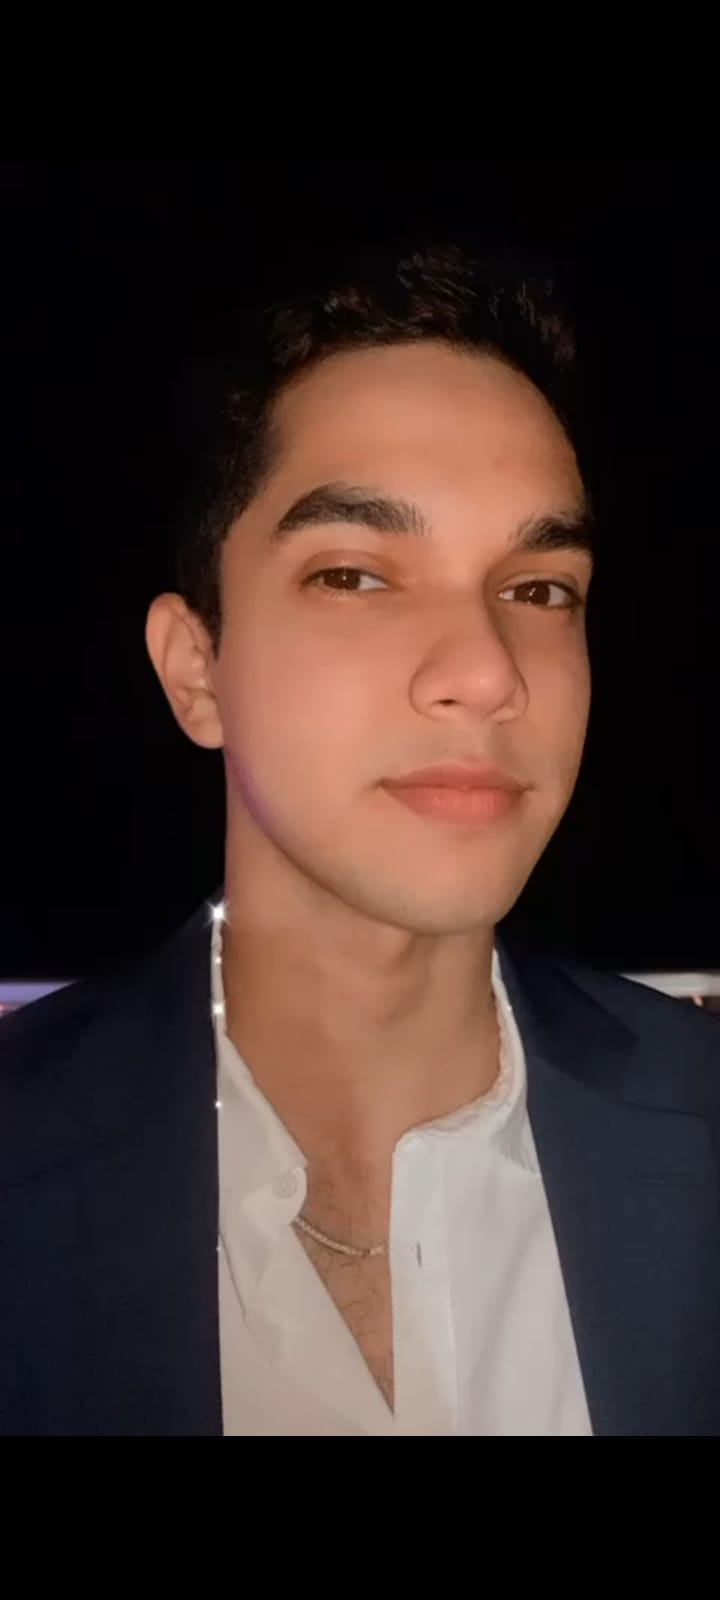
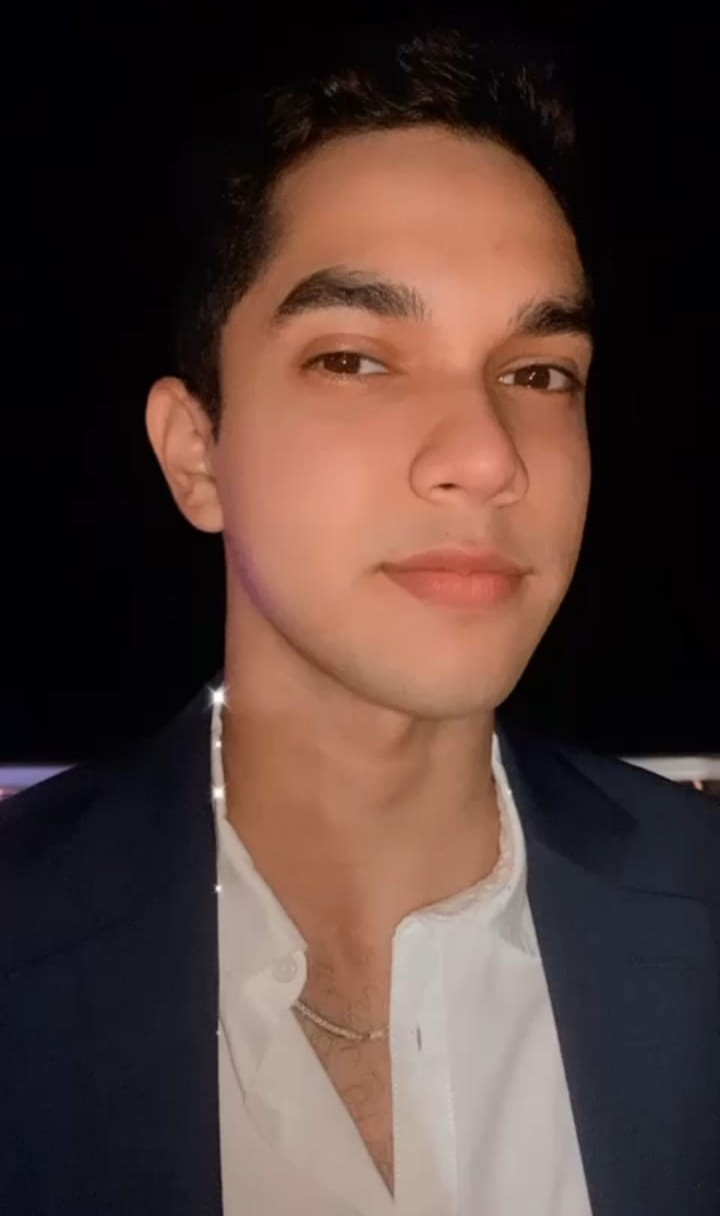
mejorando seccion sobre mi

diff --git a/web/index.html b/web/index.html
@@ -6,7 +6,7 @@
   <meta name="viewport" content="width=device-width, initial-scale=1.0">
   <title>Portafolio</title>
   <link rel="stylesheet" href="css\estilo-1.css">
-  <link rel="stylesheet" href="https://use.fontawesome.com/releases/v5.15.3/css/all.css" integrity="sha384-SZXxX4whJ79/gErwcOYf+zWLeJdY/qpuqC4cAa9rOGUstPomtqpuNWT9wdPEn2fk" crossorigin="anonymous">
+  <link rel="stylesheet" href="https://use.fontawesome.com/releases/v6.0.0/css/all.css" integrity="sha384-3B6NwesSXE7YJlcLI9RpRqGf2p/EgVH8BgoKTaUrmKNDkHPStTQ3EyoYjCGXaOTS" crossorigin="anonymous">
 </head>
 
 
@@ -33,15 +33,15 @@
                 <button class="descargar-cv" download="aqui el curri">Download CV</button>
             </a>
         </div>
-        <img src="D:\ESEN\TERCERO\Primer ciclo lll\PUI\Repo\tarea set\imagenes\Personal\personal 2rere.png" alt="mi imagen">
+        <img src="D:\ESEN\TERCERO\Primer ciclo lll\PUI\Repo\tarea set\imagenes\Personal\personal rere.png" alt="mi imagen">
     </main>
 </div>
 
-    <div class="proyectos">
-        <img src="" alt="">
+    <div class="sobre">
+        <img src="D:\ESEN\TERCERO\Primer ciclo lll\PUI\Repo\tarea set\imagenes\Personal\peronal-2.jpeg" alt="sobre-img">
     
-        <div class="proyectos-info">
-            <h2>Proyectos</h2>
+        <div class="sobre-info">
+            <h2>Sobre Mi</h2>
             <div class="divider"></div>
             <p>Lorem, ipsum dolor sit amet consectetur adipisicing elit. Quidem, fugit, similique doloremque, reiciendis possimus nihil a eius aperiam maiores quisquam modi ab unde architecto deserunt earum? Illo perferendis autem fuga.</p>
             <p>Lorem ipsum dolor sit amet consectetur adipisicing elit. Excepturi consectetur consequatur dolorem odit! Minus animi officiis architecto laudantium beatae libero ducimus perspiciatis ratione, eaque dolorum modi labore consectetur debitis maiores?</p>
@@ -54,6 +54,25 @@
             <h2>Mi Portafolio</h2>
             <div class="divider"></div>
         </div>
+
+        <div class="contenedor">
+            <div class="carta">
+                <div class="carta-img">    
+                </div>
+                <div class="carta-titulo">
+                    <h2>Descripcion de Proyecto</h2>
+                </div>
+                <div class="proywctos-link">
+                    <a href="">
+                        <i class="fab fa-github"></i>
+                    </a>
+                    <a href="">
+                        
+                    </a>
+                </div>
+            </div>
+        </div>
+
     </div>
 
 </body>

diff --git a/web/css/estilo-1.css b/web/css/estilo-1.css
@@ -105,9 +105,38 @@ img{
     margin-top: 14px;
 }
 
-.proyectos{
+.sobre {
     display: grid;
     grid-template-columns: repeat(10, 1fr);
     width: 100vw;
+    align-items: center;
 }
 
+.sobre img {
+    width: 70%;
+    margin-left: 0;
+    grid-column: 1/5;
+}
+
+.sobre-info {
+    grid-column: 5/10;
+    padding: 2em;
+    border: 5px solid rgb(222, 50, 59);
+}
+
+.sobre-info h2 {
+    font-size: 2em;
+    margin-bottom: 10px;
+}
+
+.sobre-info p {
+ color: rgb( 19, 22, 41);
+}
+
+.divider {
+    height: 4px;
+    width: 60px;
+    background-color: rgb(222, 50, 59);
+    margin-top: 10px;
+    margin-bottom: m;
+}
